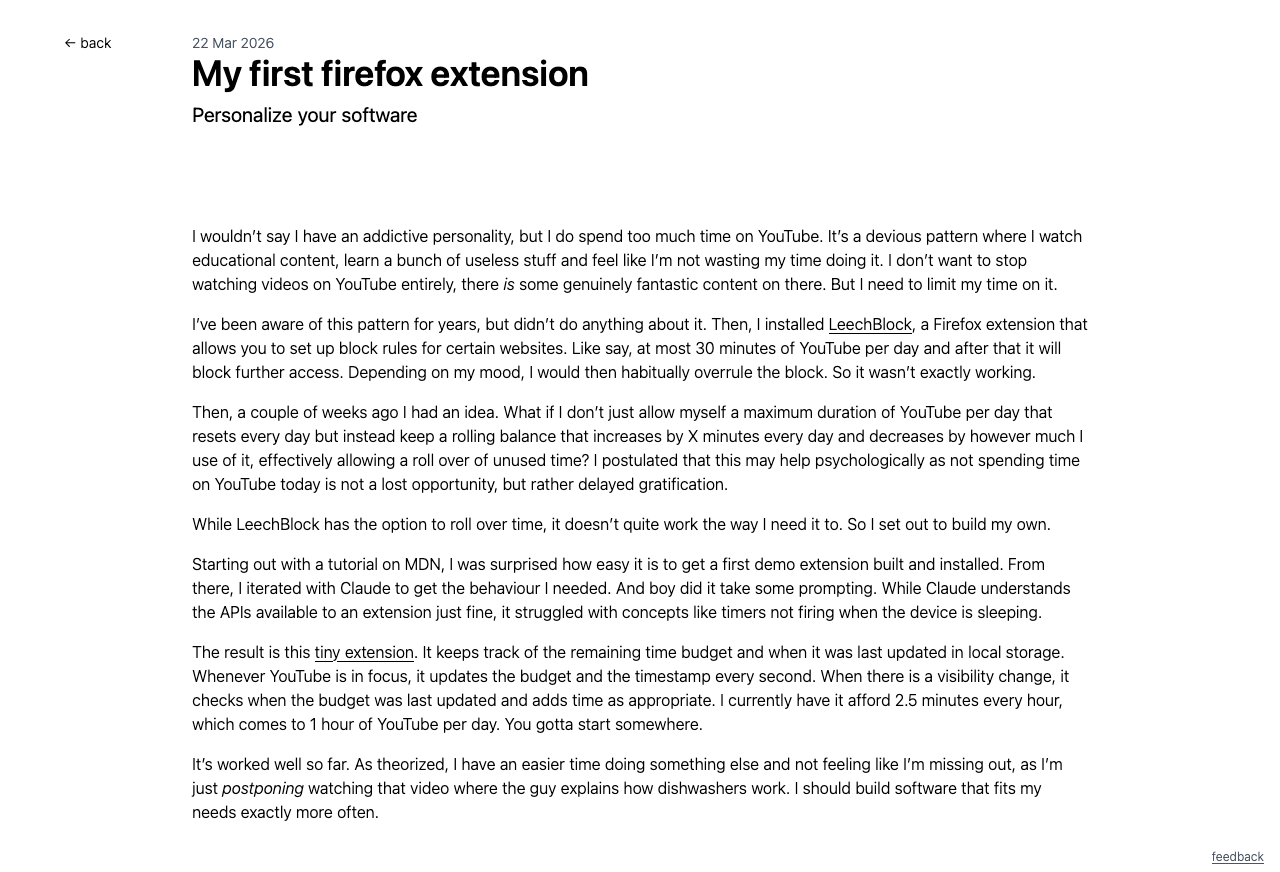
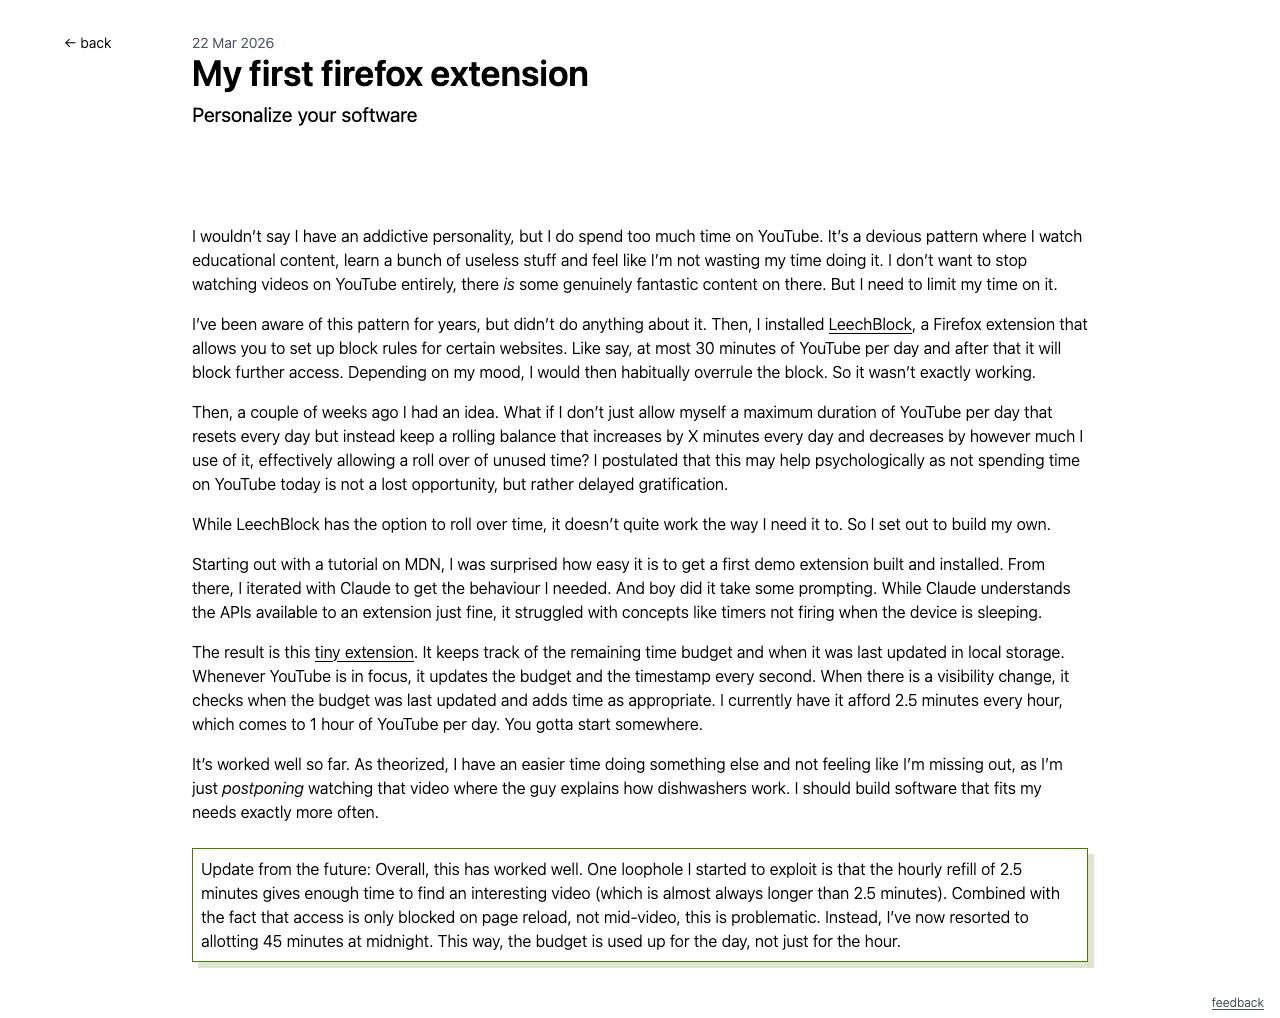
Bring visual tests up to date

diff --git a/test/visual.spec.ts b/test/visual.spec.ts
@@ -36,6 +36,8 @@ const notes = [
   "/notes/passkeys/",
   "/notes/keys-in-pm/",
   "/notes/extension/",
+  "/epaper-dashboard/",
+  "/duckdb-parquet/",
   "/feedback/",
 ];
 